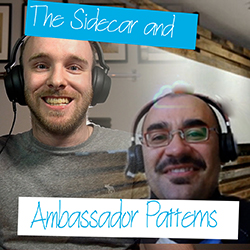
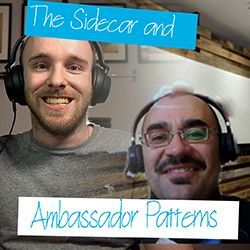
Update Glen's Info (#232)
* Updates for Glen + Episode

* Compressed Images (#229)

* Compressed Images (#230)

* Compressed Images (#231)

diff --git a/content/episode/your-career-and-your-mental-health.md b/content/episode/your-career-and-your-mental-health.md
@@ -1,0 +1,28 @@
+---
+Date: "2021-06-04T15:30:00Z"
+Description: "People often talk about work life balance, how its not working for them, and how they feel pushed over the limit. Lets dig into it a little, look at how it can be managed, and address some difficult truths as well."
+PublishDate: "2021-06-04T15:30:00Z"
+Title: 37 - Your Career and Your Mental Health
+categories:
+- People
+episode: "32"
+episode_image: img/cloudwithchrislogo.png
+explicit: "no"
+hosts:
+- chrisreddington
+guests:
+- glensmall
+images:
+- img/cloudwithchris.png
+#podcast_bytes: "18878464"
+#podcast_duration: "19:36.000"
+#podcast_file: 22 - Static Content Hosting Pattern.mp3
+tags:
+- Mental Health
+- Health
+- Wellbeing
+- Career
+#youtube: LY7FEAoPucM
+upcoming: true
+---
+TBCPeople often talk about work life balance, how its not working for them, and how they feel pushed over the limit. Lets dig into it a little, look at how it can be managed, and address some difficult truths as well.

diff --git a/content/guest/glensmall.md b/content/guest/glensmall.md
@@ -3,13 +3,13 @@ Date: "2020-02-29T00:01:00Z"
 Facebook: ""
 GitHub: ""
 Instagram: ""
-Linkedin: ""
+Linkedin: "glen-small"
 Pinterest: ""
-Thumbnail: "img/cloudwithchrislogo.png"
+Thumbnail: "img/guests/glensmall.jpg"
 Title: "Glen Small"
 Twitter: ""
 Type: "guest"
 Website: ""
 YouTube: ""
 ---
-tbc
+I've spent that last 25 years working in software development, database design, data science, solution architecture and cloud migrations. In my career I've build numerous teams and capabilities, most recently helping to build the FastTrack for Azure team at Microsoft. I now work as a Analytics Specialist Manager at Amazon Web Services.
